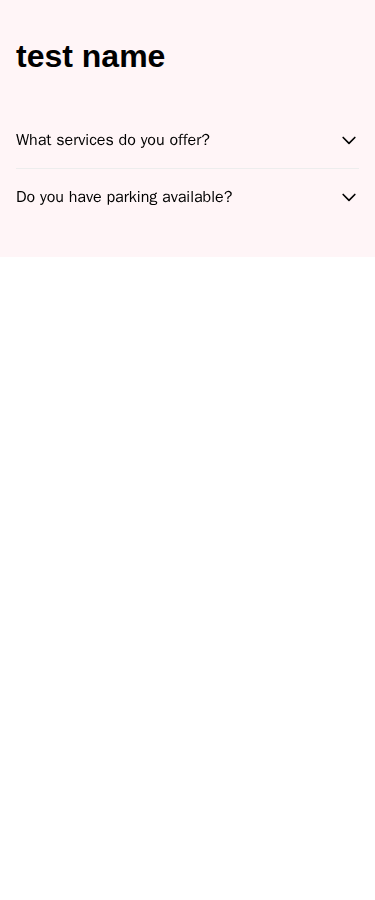
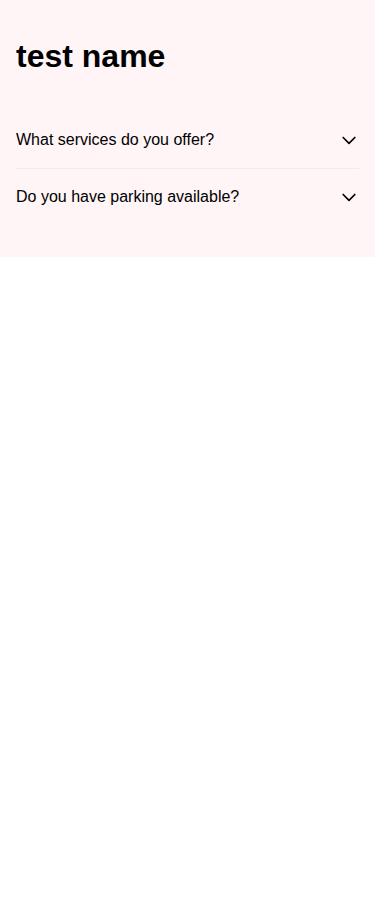
adjust

Changed region(s): [[0.0587, 0.1244, 0.6453, 0.2489]]

diff --git a/packages/visual-editor/src/components/pageSections/FAQsSection/FAQCard.tsx b/packages/visual-editor/src/components/pageSections/FAQsSection/FAQCard.tsx
@@ -1,6 +1,7 @@
 import * as React from "react";
 import { ComponentConfig, Fields, PuckComponent } from "@measured/puck";
 import {
+  Body,
   BodyProps,
   FAQStruct,
   getDefaultRTF,
@@ -239,8 +240,12 @@ const FAQCardComponent: PuckComponent<FAQCardProps> = (props) => {
             })
       }
     >
-      <AccordionTrigger>{resolvedQuestion}</AccordionTrigger>
-      <AccordionContent>{resolvedAnswer}</AccordionContent>
+      <AccordionTrigger>
+        <Body variant={styles.questionVariant}>{resolvedQuestion}</Body>
+      </AccordionTrigger>
+      <AccordionContent>
+        <Body variant={styles.answerVariant}>{resolvedAnswer}</Body>
+      </AccordionContent>
     </AccordionItem>
   );
 };
